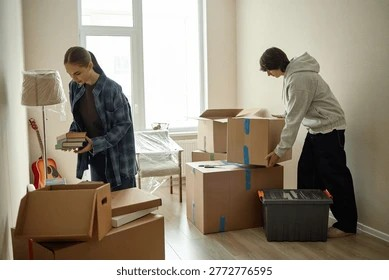
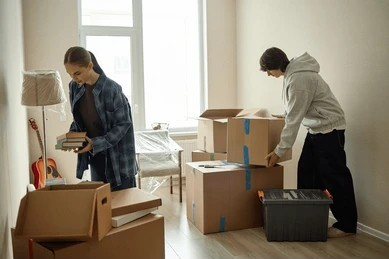
Add Photo link

diff --git a/index.html b/index.html
@@ -92,20 +92,20 @@
 
   <div class="steps">
     <div class="step">
-      <img src="IMG/flexago-step1.JPG" alt="Sender with package">
+      <img src="IMG/flexago-step1.JPG" class="Sender with package">
 
       <h3>1. Sender Creates a Request</h3>
       <p>Describe your item, pickup, and drop‑off.</p>
     </div>
 
     <div class="step">
-      <img src="IMG/flexago-step2.jpg" alt="Traveler driving">
+      <img src="IMG/flexago-step2.jpg" class="Traveler driving">
       <h3>2. Traveler Accepts & Delivers</h3>
       <p>Verified travelers pick up your item and deliver it along their route.</p>
     </div>
 
     <div class="step">
-      <img src="IMG/flexago-step3.JPG" alt="Delivery handoff">
+      <img src="IMG/flexago-step3.JPG" class="Delivery handoff">
       <h3>3. Delivery Completed</h3>
       <p>Traveler hands the package to the receiver — simple and secure.</p>
     </div>
